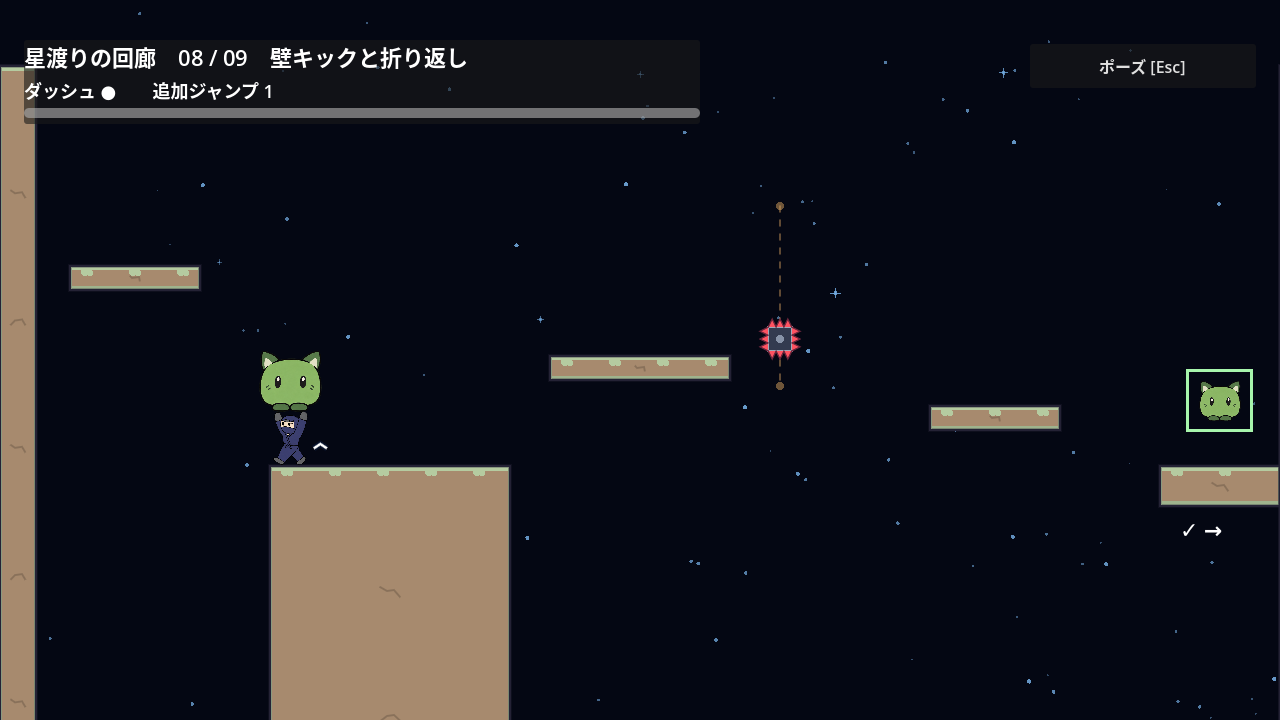
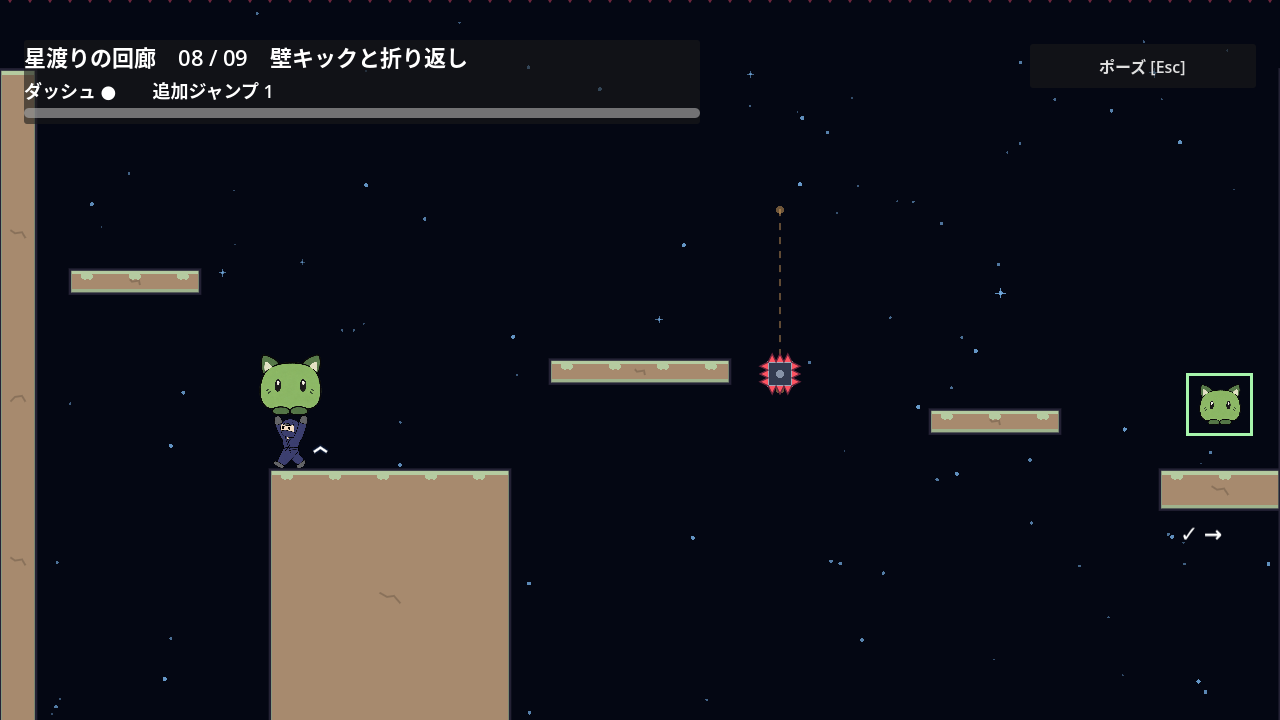
🐛 相棒の上投げで壁キックを省ける経路を塞ぐ

diff --git a/docs/stage-4.md b/docs/stage-4.md
@@ -2,7 +2,7 @@
 
 全9面で、入口にいる緑の生物（Jump Creature）を持ったまま出口まで運ぶ。持っている間は壁登り・壁掴みができず、壁キックと生物の追加空中ジャンプを使って進む。追加ジャンプは足場への着地で回復する。既存のプレイヤーの性能は変更していない。
 
-各面の幅は1280px。第2室は高さ1800px、第7・8・9室はそれぞれ1320・1500・1100pxで縦にカメラが追従する。ほかの5室は1280×720の固定画面。出口の右端に生物を保持して着地すると次へ移動する。最終面は生物を保持して到着台を踏むとクリア。生物を置いたり投げたりして出口へ届けるだけでは通過できない。出口には枠に入った相棒の絵を置き、保持中は下の丸印がチェック印へ変わる。相棒の近くにいるときだけ掴むキーを表示する。常設の長い操作説明は省き、詳しいヒントはポーズメニューから開く。
+各面の幅は1280px。第2室は高さ1800px、第7・8・9室はそれぞれ1320・1900・1100pxで縦にカメラが追従する。ほかの5室は1280×720の固定画面。出口の右端に生物を保持して着地すると次へ移動する。最終面は生物を保持して到着台を踏むとクリア。生物を置いたり投げたりして出口へ届けるだけでは通過できない。出口には枠に入った相棒の絵を置き、保持中は下の丸印がチェック印へ変わる。相棒の近くにいるときだけ掴むキーを表示する。常設の長い操作説明は省き、詳しいヒントはポーズメニューから開く。
 
 | 面 | テーマ | 地形と攻略の違い |
 | --- | --- | --- |
@@ -13,7 +13,7 @@
 | 5 | 離れ小島の大跳躍 | 相棒の追加ジャンプと上Dashで高い横風へ入り、630px先の幅230pxの島へ渡る。着地して休み、出口へ進む |
 | 6 | 折り返しの頂 | 右へ上がり、左上の足場へ折り返してから右へ大きく渡る経路 |
 | 7 | 二段の高台 | 相棒と上Dashで420pxの高低差を2回越える。最初の休憩台から左上へ任意の巻物枝がある |
-| 8 | 壁キックと折り返し | 900pxの縦穴を壁キックで登り、左上へ折り返してから右側の台を渡る |
+| 8 | 壁キックと折り返し | 1300pxの縦穴を壁キックで登り、左上へ折り返してから右側の台を渡る |
 | 9 | 折り返しの風橋 | 高い横風から右の島へ入り、左上の台へ折り返してから最終到着台へ進む |
 
 天井には全幅1280pxにわたる赤いトゲを配置した。上端0〜32pxに危険を表示し、画面内で接触して復帰する。HUDは天井トゲを隠さない位置へ下げた。動くトゲの往復範囲は点線で表示する。接触判定は移動区間を調べ、ダッシュによるすり抜けも防ぐ。
@@ -66,11 +66,11 @@ Godot_v4.7.2-stable_win64_console.exe --headless --fixed-fps 60 --path . --scrip
 
 巻物IDは`companion/relay_left_01`、実配置数は1。控えめな巻物印を分岐の入口へ置く。共通の収集・保存処理を使い、部屋の進行が未保存でも確定した巻物は残る。主経路の出口を収集数で閉じない。
 
-第8室は入口Y=1400pxから、Y=500pxの台へ左右の壁キックで登る。相棒保持中は壁を掴んで登れない。900pxの高さにより、通常Jump・相棒Jump・8方向Dashだけでは台へ届かない。広い台で休み、左上のY=300pxへ折り返してから、右側のY=390pxと440pxの台を渡る。薄い台は下から通れるため、追加Jumpを下面へぶつけずに着地できる。
+第8室は入口Y=1800pxから、Y=500pxの台へ左右の壁キックで登る。相棒保持中は壁を掴んで登れない。1300pxの高さにより、通常Jump・相棒Jump・8方向Dashだけでは台へ届かない。広い台で休み、左上のY=300pxへ折り返してから、右側のY=390pxと440pxの台を渡る。薄い台は下から通れるため、追加Jumpを下面へぶつけずに着地できる。
 
 第9室は入口Y=1000pxから、Y=480〜520pxの高い横風へ相棒Jumpと上Dashで入る。右のY=860pxの島へ着地して回復し、左上のY=680pxへ折り返す。その後は右のY=480pxの広い足場から最終到着台へ進む。風は既存のWindAreaを使う。HUDは右下へ置き、風と踏み切りを隠さない。
 
-`tests/corridor_expansion_test.gd`は、通常入力と水平入力強度0.85で新3室を連続攻略する。各室の最初の台で3秒静止し、相棒・追加Jump・Dashを保ったまま再出発する。休憩を含めた成功経路は第7室9.32〜9.35秒、第8室14.40〜15.80秒、第9室9.27〜9.28秒。物理更新は60Hz、固定描画は60fps。自動入力の値であり、初見の人の所要時間ではない。
+`tests/corridor_expansion_test.gd`は、通常入力と水平入力強度0.85で新3室を連続攻略する。各室の最初の台で3秒静止し、相棒・追加Jump・Dashを保ったまま再出発する。休憩を含めた成功経路は第7室9.32〜9.35秒、第8室18.08〜18.60秒、第9室9.27〜9.28秒。物理更新は60Hz、固定描画は60fps。自動入力の値であり、初見の人の所要時間ではない。
 
 同テストでは、高い横風への追加Jumpと上Dashを16・20・24フレームの間隔で組み合わせた18例、最初の高台への185・205・218pxの踏切を確認する。負例は各室48例、計144例。必要な追加Jumpまたは壁キックを使わず、8方向Dashの開始時機を変えて試す。うち48例は実際に置いた相棒の背からGrabと通常Jumpを行う。巡回トゲを停止して地形による必須性を分け、固定トゲは維持する。任意の入力列についての不可能証明ではない。
 
@@ -79,3 +79,9 @@ R、実際の斜めDashと巡回トゲの接触、相棒と資源の復元、巻
 旧第1室・壁キック・島の必須化検査は、同じ入力群を保って再実行した。各673・982・3287項目。島の踏み台検査は、実入力で相棒の中心の左10pxへ減速してから歩数を測る。慣性で相棒の端へずれる準備を修正し、元の支持接触・実コヨーテ離床・Grabと通常Jumpの成立条件を維持した。保持中の復帰検査は、高さ1800pxになった第2室の入口に合わせた接触用巡回を使う。共有Player・相棒・風・トゲの物理は変更しない。
 
 描画付きの連続入力も確認し、[第7室の休憩](screenshots/corridor-expansion/room_7_rest.png)、[第8室の休憩](screenshots/corridor-expansion/room_8_rest.png)、[第9室の島](screenshots/corridor-expansion/room_9_rest.png)、[最終到着台](screenshots/corridor-expansion/room_9_goal.png)、[巻物の棚](screenshots/corridor-expansion/scroll_loft.png)、[巻物からの帰還](screenshots/corridor-expansion/scroll_return.png)を残す。
+
+独立レビューでは、旧900pxの縦穴で、通常Jump→20フレーム→相棒Jump→20フレーム→上Dash→4フレーム後の上投げから、手ぶらで右壁を登り直す経路が成立した。落ちてくる相棒をプレイヤー座標(251.93, 476.18)で再取得し、最初の台へ(273.43, 473.93)で着地して、そのまま出口まで壁キック0回で通過できた。巡回を止めた比較と、有効にした経路の両方で再現している。
+
+修正では入口と部屋の下端、大壁の下端だけを400px下げ、休憩台までの高低差を1300pxへ広げた。`tests/corridor_throw_climb_test.gd`は、通常と相棒の背からの踏切、左右の手ぶら登り、上投げの0・4・8フレーム、巡回の停止・有効を組み合わせた24例を実入力で試す。73項目で全24例の実上登りと、相棒を再取得して台へ進めないこと、失敗時の入口・相棒・資源の復元を確認する。同じ試験は旧900pxの配置では4フレーム後の上投げで失敗する。
+
+通常入力と横入力0.85の正規壁キック、3秒の休憩、旧第2室の配置は維持する。[第8室の登攀途中](screenshots/corridor-expansion/room_8_shaft.png)と休憩台の画像は、伸ばした部屋の実入口からの入力で更新した。
